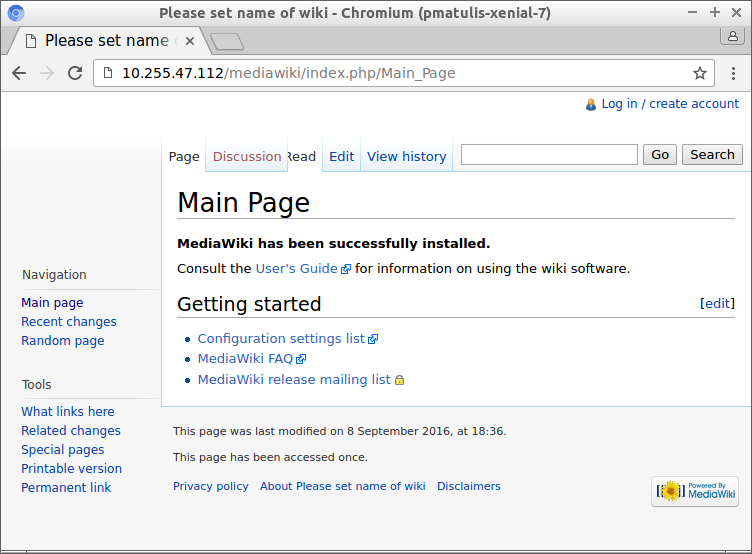
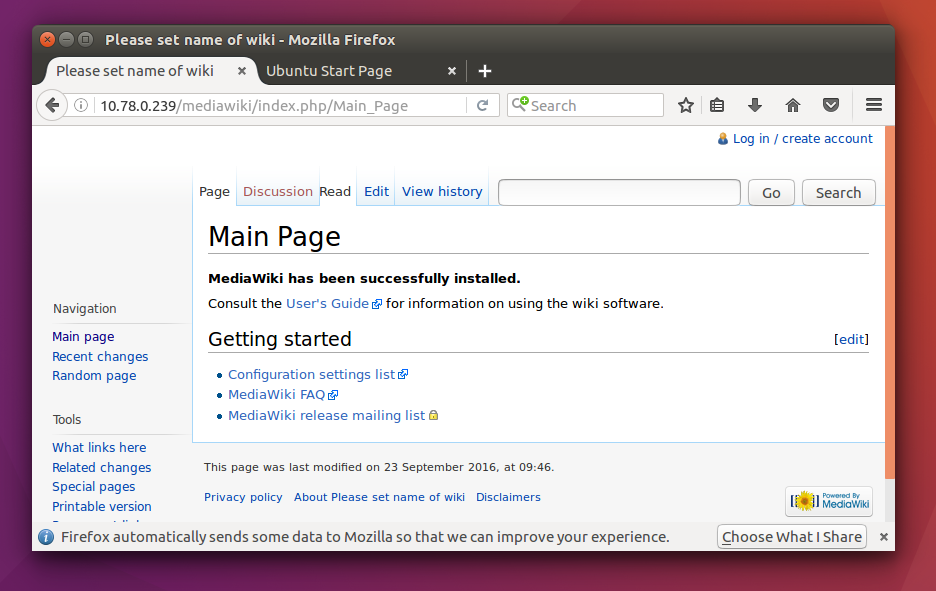
Updates to getting started

diff --git a/src/en/getting-started.md b/src/en/getting-started.md
@@ -6,8 +6,7 @@ TODO:  Bug check, LP#1619971
 
 These instructions will get you up and running and deliver the best-possible
 experience with Juju. At the moment, that means using the latest release of
-Ubuntu: [16.04 LTS (Xenial)][Xenial-download]. Either the Server or the Desktop
-edition will suffice.
+Ubuntu: [16.04 LTS (Xenial)][Xenial-download].
 
 See the [general Getting Started page][getting-started-general] if you're using
 something other than Xenial.
@@ -15,12 +14,7 @@ something other than Xenial.
 Apart from Juju, the following technologies will be used:
    
 - [LXD][LXD-upstream]: a hypervisor for LXC, providing fast, secure containers.
-- [ZFS][ZFS-wiki]: a highly performant and feature-rich filesystem and logical volume manager.
-
-[Xenial-download]: http://www.ubuntu.com/download/ "Xenial download"
-[getting-started-general]: ./getting-started-general.html "general Getting Started"
-[LXD-upstream]: https://linuxcontainers.org/lxd/ "LXD upstream"
-[ZFS-wiki]: https://wiki.ubuntu.com/ZFS "ZFS Ubuntu wiki"
+- [ZFS][ZFS-wiki]: a highly efficient and feature-rich filesystem and logical volume manager.
 
 
 ## Install the software
@@ -43,12 +37,6 @@ command:
 groups
 ```
 
-Sample output is provided below:
-
-```no-highlight
-lxd adm cdrom sudo dip plugdev lpadmin sambashare ubuntu
-```
-
 Your groups may vary, but if `lxd` is absent you should refresh group
 membership with:
 
@@ -64,23 +52,16 @@ process, enter:
 sudo lxd init
 ```
 
-You will be asked several questions. In the example below, LXD will i) create a
-32GB ZFS pool, ii) refrain from putting the pool on a separate block device,
-iii) refrain from listening over the network, and iv) trigger the setup of a
-bridge network (required for Juju).
-
-Pressing Enter will accept the default answer (provided in square
-brackets). Only one answer in the below example uses a non-default value.
- 
-!!! Note: Make sure there is sufficient free space on your host to accomodate
-the requested pool size.
+You will be asked several questions to configure LXD for use. Pressing Enter
+will accept the default answer (provided in square brackets). Only one answer
+in the below example uses a non-default value.
 
 ```no-highlight
 Name of the storage backend to use (dir or zfs) [default=zfs]: 
 Create a new ZFS pool (yes/no) [default=yes]? 
 Name of the new ZFS pool [default=lxd]:
 Would you like to use an existing block device (yes/no) [default=no]? 
-Size in GB of the new loop device (1GB minimum) [default=10GB]: 32
+Size in GB of the new loop device (1GB minimum) [default=10GB]: 20
 Would you like LXD to be available over the network (yes/no) [default=no]? 
 Do you want to configure the LXD bridge (yes/no) [default=yes]?
 ```
@@ -88,7 +69,7 @@ Do you want to configure the LXD bridge (yes/no) [default=yes]?
 The bridge network will then be configured via a second round of questions.
 Except in the case where the randomly chosen subnet may conflict with an
 existing one in your local environment, it is fine to accept all the default
-answers. In particular, IPv6 networking is not required (the last question).
+answers. IPv6 networking (the last question) is not required for Juju.
 
 ^# Walkthrough of network configuration  
 
@@ -179,7 +160,7 @@ the one we just created:
   
 ```no-highlight
 CONTROLLER  MODEL    USER         ACCESS+    CLOUD/REGION         MODELS+ MACHINES+  VERSION+
-lxd-test*   default  admin@local  superuser  localhost/localhost        2 	  1  2.0-beta18  
+lxd-test*   default  admin@local  superuser  localhost/localhost        2 	  1       2.0  
 
 + these are the last known values, run with --refresh to see the latest information.
 ```
@@ -194,7 +175,7 @@ The following command shows the currently active controller, model, and user:
 juju whoami
 ```
 
-Our example provides this output:
+In our example, the output should look like this:
 
 ```no-highlight
 Controller:  lxd-test
@@ -202,22 +183,18 @@ Model:       default
 User:        admin@local
 ```
 
-!!! Note: In the output we see that user 'admin' is a local user. Future
-functionality may include remotely authenticated users.
-
-
 ## Deploy
 
 Juju is now ready to deploy applications from among the hundreds included in
 the [Juju charm store][charm store]. It is a good idea to test your new model.
-How about a Mediawiki site?
+How about a MediaWiki site?
 
 ```bash
 juju deploy wiki-simple
 ```
 
 This will fetch a 'bundle' from the Juju store. A bundle is a pre-packaged set
-of applications, in this case 'Mediawiki', and a database to run it 
+of applications, in this case 'MediaWiki', and a database to run it 
 with. Juju will install both applications and add a relation between them - 
 this is part of the magic of Juju: it isn't just about deploying software, Juju 
 also knows how to connect it all together.
@@ -235,18 +212,19 @@ look something like this:
 ![juju status](./media/juju-mediawiki-status.png)
 
 There is a lot of useful information there! The important parts for now are
-the APP section, which shows that Mediawiki (shortened to 'wiki') and MySQL are
+the APP section, which shows that MediaWiki (shortened to 'wiki') and MySQL are
 installed, and the UNIT section, which shows the IP addresses allocated to
 each. These addresses correspond to the subnet we created for LXD earlier on.
 
-Regarding security, applications running on a public cloud are not accessible
-until a change is made on that cloud's firewall. Juju will do this for you via
-the `juju expose <application>` command (here, our application is 'wiki'). Yet
-we are not using a public cloud in this example and LXD traffic is not locked
-down by default so there is nothing for Juju to unblock/expose.
+By default, Juju is secure - you won't be able to connect to any applications
+on a public cloud unless they are specifically exposed using the 
+`juju expose <application>` command. This adjusts the relevant firewall 
+controls of the cloud to allow external access. Traffic to LXD is not locked 
+down by default, so for this example there is no need to perform this step.
 
-The IP address we're interested in is 10.255.47.112. Point your browser at that
-address to see the site:
+From the status output, we can see that the IP address for the MediaWiki
+site we have created is 10.78.0.239. Open a browser and enter that address 
+to see the site.
 
 !["mediawiki site"](./media/juju-mediawiki-site.png)
 
@@ -278,3 +256,7 @@ We suggest you take the time to read the following:
 [concepts]: ./juju-concepts.html "Juju concepts"
 [charms]: ./charms.html
 [models]: ./models.html
+[Xenial-download]: http://www.ubuntu.com/download/ "Xenial download"
+[getting-started-general]: ./getting-started-general.html "general Getting Started"
+[LXD-upstream]: https://linuxcontainers.org/lxd/ "LXD upstream"
+[ZFS-wiki]: https://wiki.ubuntu.com/ZFS "ZFS Ubuntu wiki"
